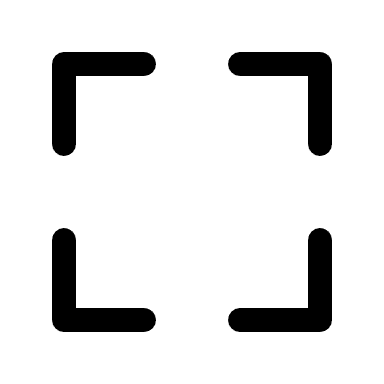
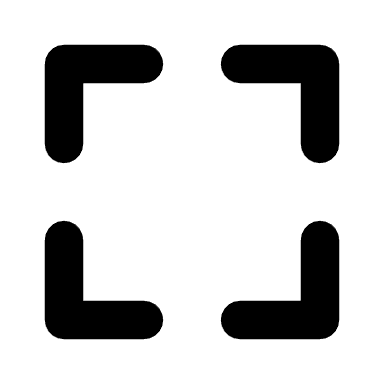
Add feature buttons

diff --git a/index.html b/index.html
@@ -19,6 +19,9 @@
                         src='images/sidebarclose.png'></button>
                 <button id='genExplain' title='View generic explanations'><img src='images/explain.png'></button>
                 <button id='toggleFullScreen' title='Toggle full screen'><img src='images/fullscreen.png'></button>
+                <button id='toggleLightMode' title='Switch between light and dark mode'><img src='images/light.png'></button>
+                <button id='uploadGraphs' title='Upload graph json'><img src='images/upload.png'></button>
+                <button id='downloadGraphs' title='Download graphs as json'><img src='images/download.png'></button>
             </h2>
             <div class='sourceInput' id='sourceInput'>
                 <input type='text' id='graphName' placeholder='Graph name (Can be blank)'> <br>
